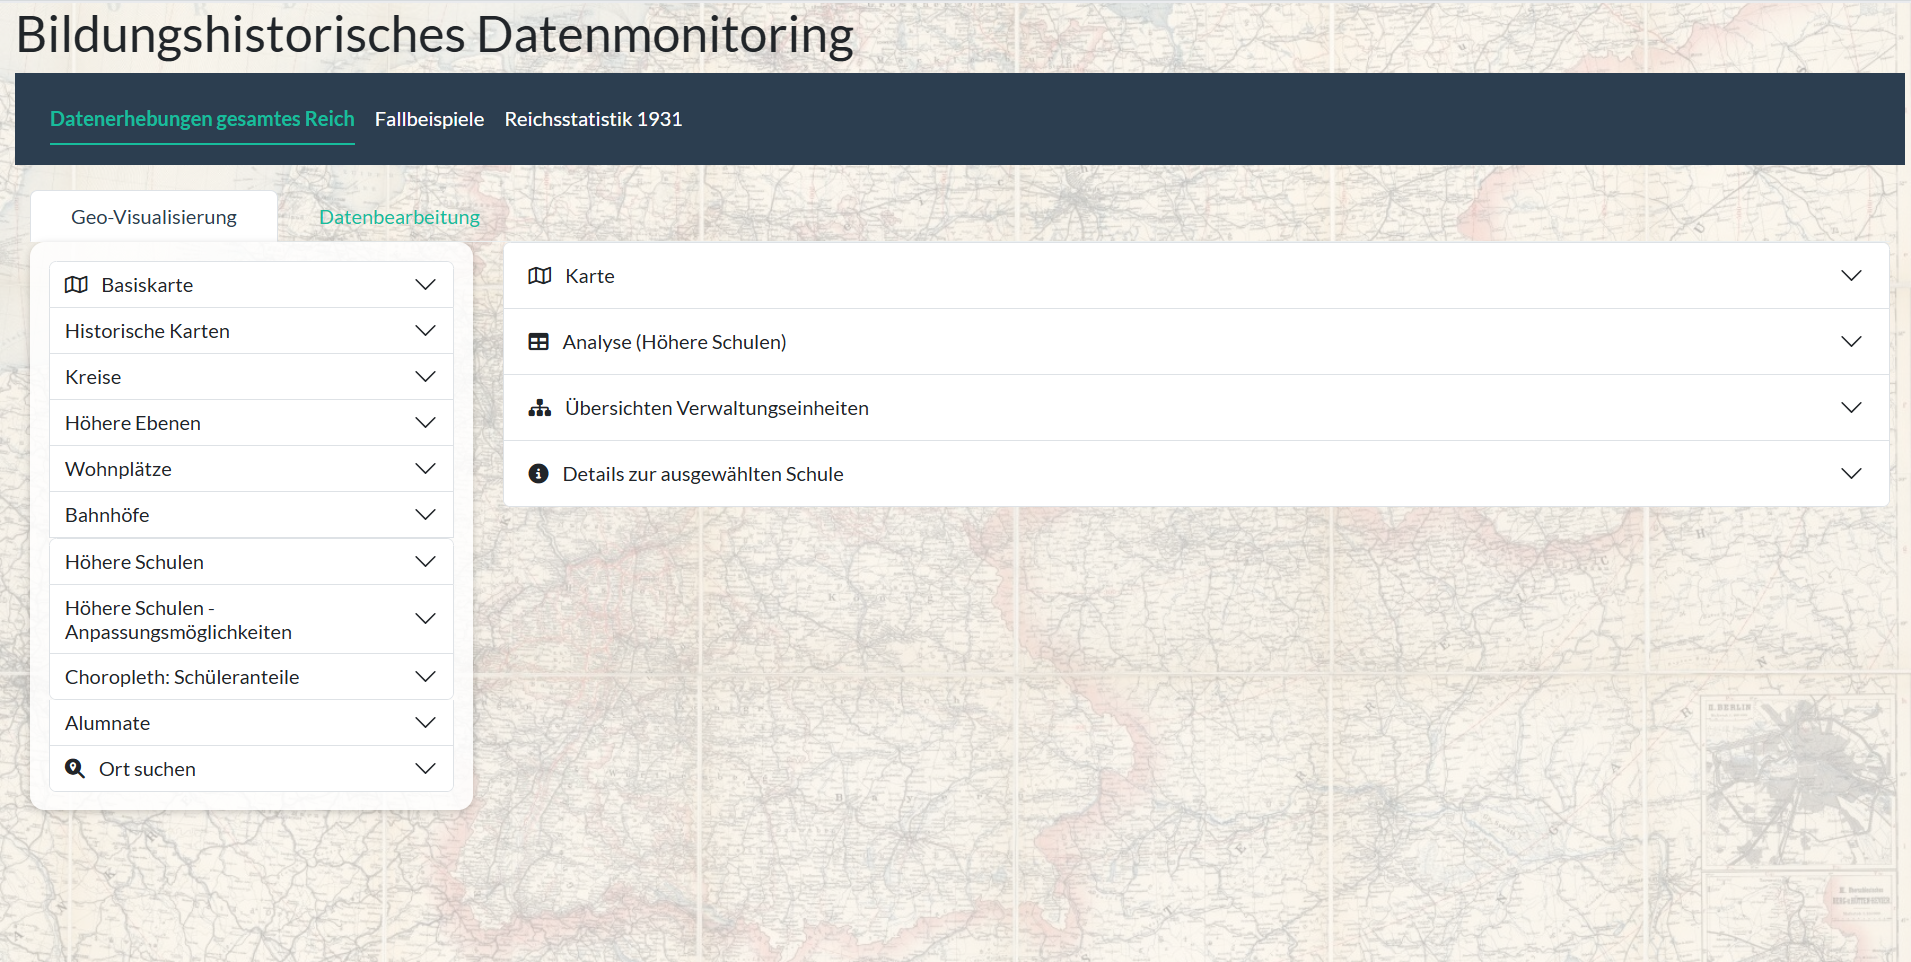
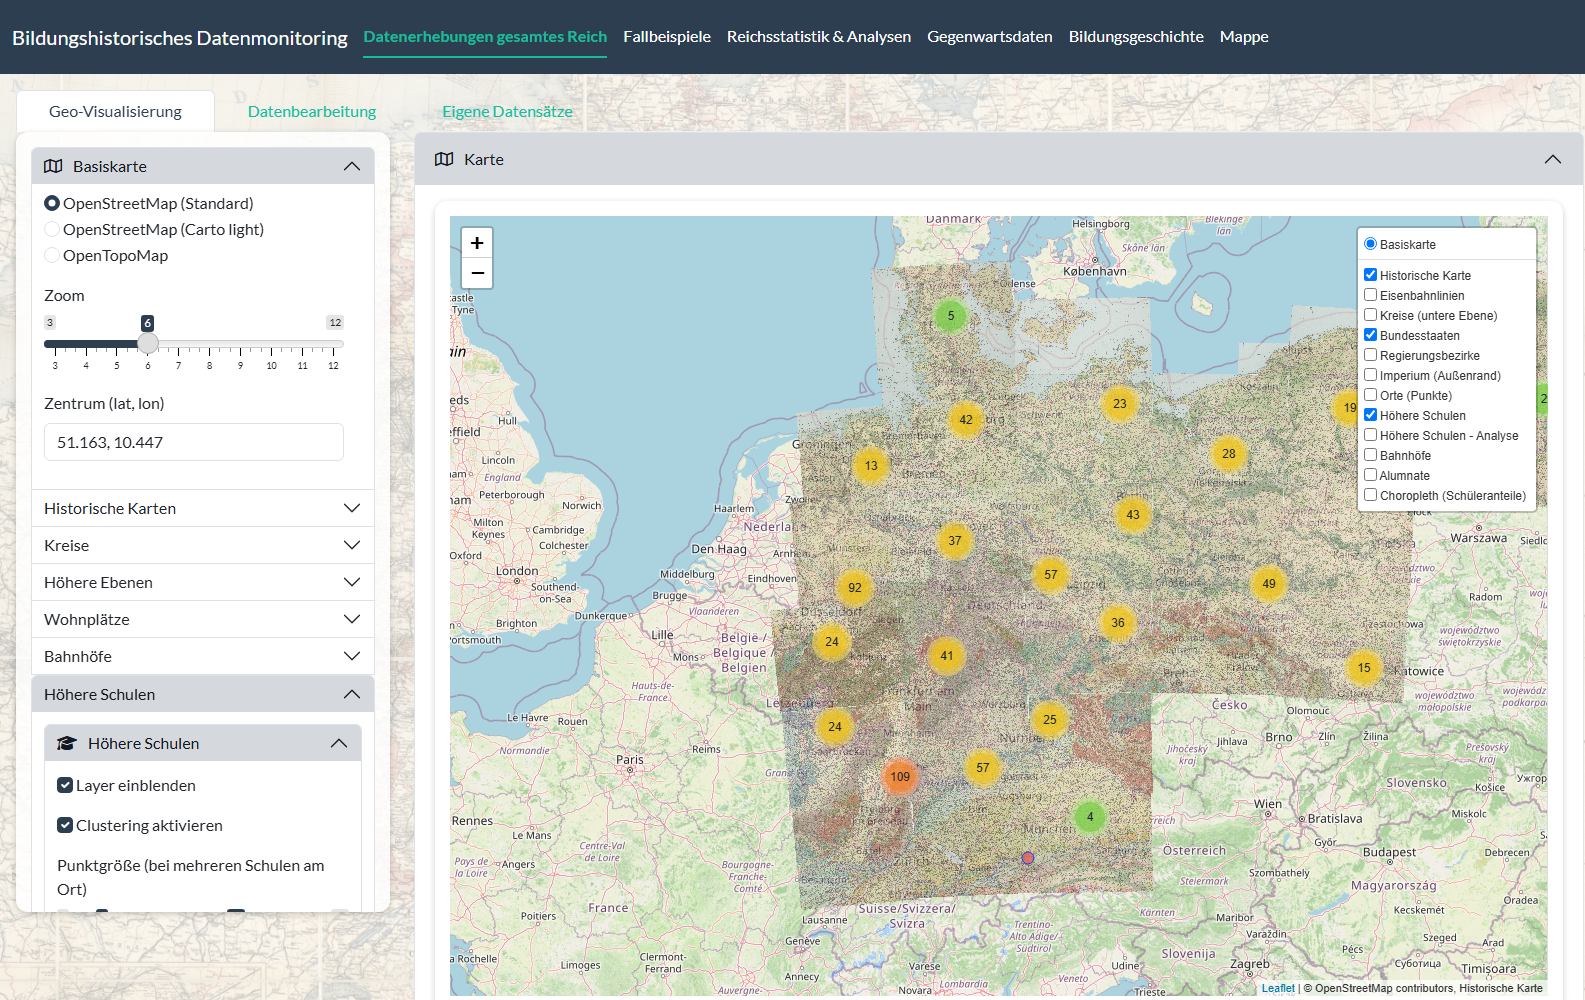
Update screenshots and describe current feature set
Replace the overview screenshot with the current UI and add views of the
border comparison 1910/1931, the Bildungsgeschichte module, the report
folder (Mappe), the aggregated Attendorn accommodation case study, the
occupational census benchmark and the present-day data module.
README: feature overview (as of October 2026), two additional methods,
optional LLM support, captions for all views.

diff --git a/README.md b/README.md
@@ -24,8 +24,23 @@ Das Werkzeug ist im Rahmen des Projekts *„Schülerpensionen und Schülerverbin
 - **Normierte Ortsregister (Gazetteer):** Aufbau eines Kreis-Gazetteers mit normalisierten Schlüsseln zur verlässlichen Zuordnung historischer Verwaltungseinheiten.
 - **OCR-gestützte Erschließung:** halbautomatische Erfassung gedruckter Tabellen aus digitalisierten Quellen.
 - **Interaktive Darstellung:** Karten, Diagramme und tabellarische Ranglisten; Export einzelner Darstellungen.
+- **Verknüpfung mit der Berufsstatistik:** Berufs- und Gewerbezählung 1895 auf Kreisebene (eigene Transkription), verknüpft mit den Berufsangaben der Väter in den Schülerverzeichnissen.
+- **Transparente Modellierung:** ein an den Fallstudien kalibriertes Zugangsmodell, das für eine gedachte Person Belege mit Fallzahl und Quelle zusammenstellt, statt eine Einzelfallprognose zu geben.
 
 Technisch basiert das Werkzeug auf **R** und **Shiny** (u. a. `sf`, `leaflet`, `terra`/`raster`, `magick`, `tesseract`, `arrow`) und ist modular aufgebaut, sodass es sich leicht erweitern lässt.
+
+## Funktionsumfang (Stand: Oktober 2026)
+
+| Bereich | Inhalt |
+|---|---|
+| **Datenerhebungen gesamtes Reich** | Geo-Visualisierung mit historischen Karten, Kreisen und Verwaltungsebenen, Wohnplätzen, Bahnhöfen, höheren Schulen (gefiltert nach Schultyp, Trägerschaft, Konfession, Jahr), Alumnaten und Choroplethen zu Schüleranteilen; Datenbearbeitung; **eigene Datensätze** mit beliebigem Spaltenschema hochladen, Ortsnamen gegen das Gazetteer abgleichen und als Karte darstellen |
+| **Fallbeispiele** | Wurzen, Attendorn, Frankfurt am Main sowie ein standortübergreifender Vergleich des Pensionswesens (Unterkunftsform, Pensionsgeber) |
+| **Reichsstatistik & Analysen** | Reichserhebung 1931 (Kreise, Länder, Geschlechtervergleich), Zeitvergleich der Verwaltungsgrenzen 1910/1931, Schüleranteile nach Bahnhofsnähe, Benchmark der Berufszählungen 1882–1950, Zeitreihen der Bundesstaaten |
+| **Gegenwartsdaten** | Schulstatistik der Bundesländer ab 2005/06, live über die GENESIS-Schnittstelle der Statistischen Ämter |
+| **Bildungsgeschichte** | Möglichkeitsraum für eine gedachte Person (Wohnort, Geburtsjahr, Geschlecht, Beruf des Vaters): Einschätzung, Wege, Zeitachse, Rahmen auf Ebene von Bundesstaat und Kreis sowie Belege aus den Fallstudien – jeweils mit Fallzahl und Quelle |
+| **Mappe** | Diagramme, Tabellen und Karten aus allen Modulen sammeln, kommentieren, ordnen und als Bericht (HTML oder Word) ausgeben |
+
+Optional lässt sich ein Sprachmodell anbinden (anbieteroffen; standardmäßig ausgeschaltet). Es schlägt Zuordnungen für nicht erkannte historische Ortsnamen vor und formuliert eine ausdrücklich als solche gekennzeichnete KI-Einschätzung zu Karten und Belegen. Zugangsschlüssel werden ausschließlich lokal hinterlegt.
 
 ## Fallstudien (Auswahl)
 
@@ -33,15 +48,39 @@ Wurzen, Attendorn, Laubach, Gütersloh und Frankfurt am Main – u. a. zur Unter
 
 ## Ansichten
 
-![Startansicht der Geo-Visualisierung über einer historischen Reichskarte](docs/01_overview_geo-visualisierung.png)
+![Geo-Visualisierung: höhere Schulen über einer historischen Reichskarte](docs/01_overview_geo-visualisierung.png)
 
-*Startansicht: Ebenen- und Analysemenü der Geo-Visualisierung (Basiskarte, historische Karten, Kreise, höhere Schulen, Choropleth u. a.).*
+*Geo-Visualisierung: höhere Schulen (gruppiert) über einer historischen Reichskarte mit Bundesstaaten; links das Ebenenmenü, rechts die Ebenensteuerung der Karte.*
 
 ![Höhere Schulen auf einer historischen topografischen Karte der Altmark](docs/02_historische_karte_altmark.png)
 
 *Verortung höherer Schulen auf einer historischen topografischen Karte mit zuschaltbaren Ebenen (Kreise, Eisenbahnlinien, Bundesstaaten).*
 
-Weitere Ansichten befinden sich im Ordner [`docs/`](docs/). Darstellungen auf Einzelpersonenebene (etwa Netzwerke einzelner Schüler) sind aus Datenschutz- und Urheberschaftsgründen bewusst **nicht** enthalten.
+![Zeitvergleich der Kreisgrenzen 1910 und 1931 in Mitteldeutschland](docs/03_zeitvergleich_verwaltungsgrenzen.png)
+
+*Zeitvergleich der Verwaltungsgrenzen: Kreise 1910 (blau, durchgezogen) und 1931 (rot, gestrichelt) übereinandergelegt – hier Thüringen, das 1920 aus den thüringischen Kleinstaaten gebildet wurde.*
+
+![Modul Bildungsgeschichte mit Steckbrief und Einschätzung](docs/04_bildungsgeschichte.png)
+
+*Bildungsgeschichte: Für eine gedachte Person (hier: Junge aus Olpe, Rheinprovinz, geboren 1875, Vater in der Landwirtschaft) stellt das Modul Belege zusammen – nächste höhere Schule, geografischer und sozialer Faktor, Berufsstruktur des Heimatkreises 1895 –, jeweils mit Fallzahl, Quelle und Unsicherheitsintervall.*
+
+![Mappe mit gesammelten Elementen für einen Bericht](docs/05_mappe_bericht.png)
+
+*Mappe: Elemente aus allen Modulen werden gesammelt, kommentiert und als HTML- oder Word-Bericht ausgegeben.*
+
+![Fallbeispiel Pensionswesen: Unterkunftsform in Attendorn 1826–1920](docs/06_fallbeispiel_unterkunftsform.png)
+
+*Fallbeispiel Pensionswesen: Anteil der Schüler bei den Eltern, im Konvikt und in Pension am Gymnasium Attendorn 1826–1920 (aggregiert).*
+
+![Benchmark der Berufszählung 1907](docs/07_berufszaehlung_benchmark.png)
+
+*Berufszählungs-Benchmark: Verteilung der Erwerbstätigen nach beruflicher Stellung, hier Berufszählung 1907.*
+
+![Gegenwartsdaten: Schülerzahlen nach Bundesländern seit 2005/06](docs/08_gegenwartsdaten.png)
+
+*Gegenwartsdaten: Schülerinnen und Schüler allgemeinbildender Schulen nach Bundesländern, abgerufen über die GENESIS-Schnittstelle.*
+
+Darstellungen auf Einzelpersonenebene (etwa Netzwerke einzelner Schüler, Namen oder Adressen aus den Schülerverzeichnissen) sind aus Datenschutz- und Urheberschaftsgründen bewusst **nicht** enthalten.
 
 ## Daten und Datenschutz
 
